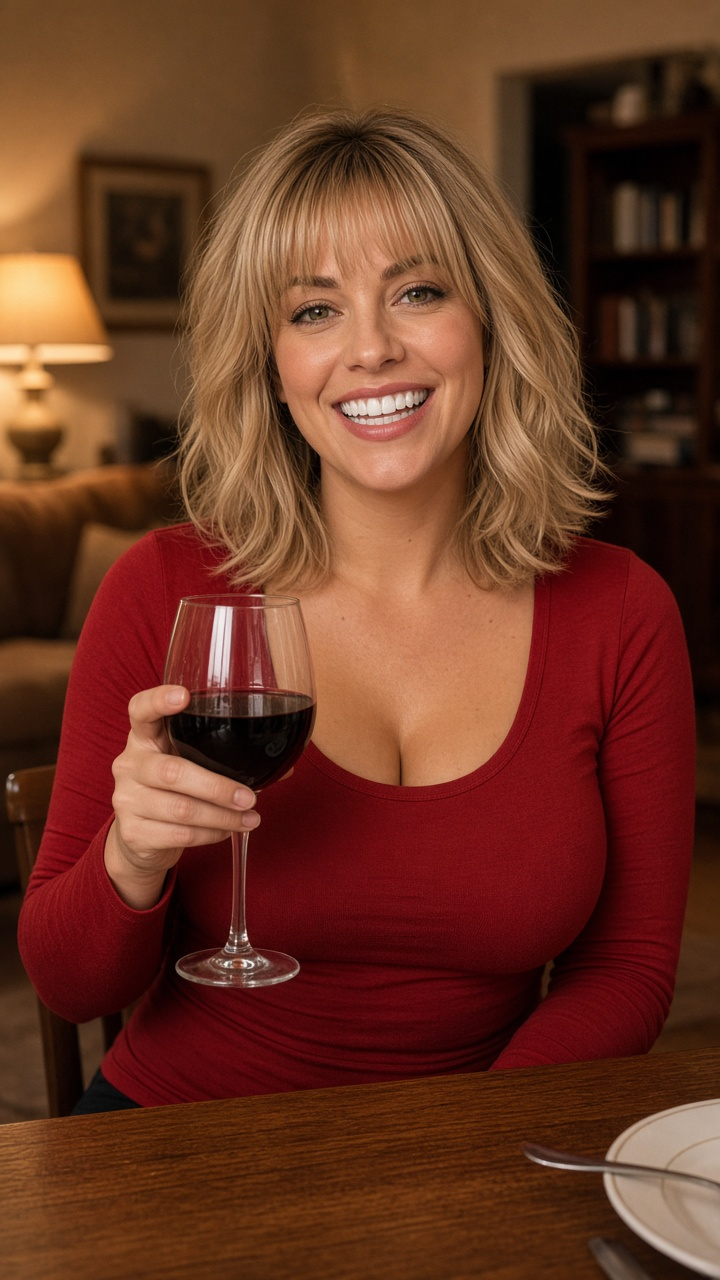
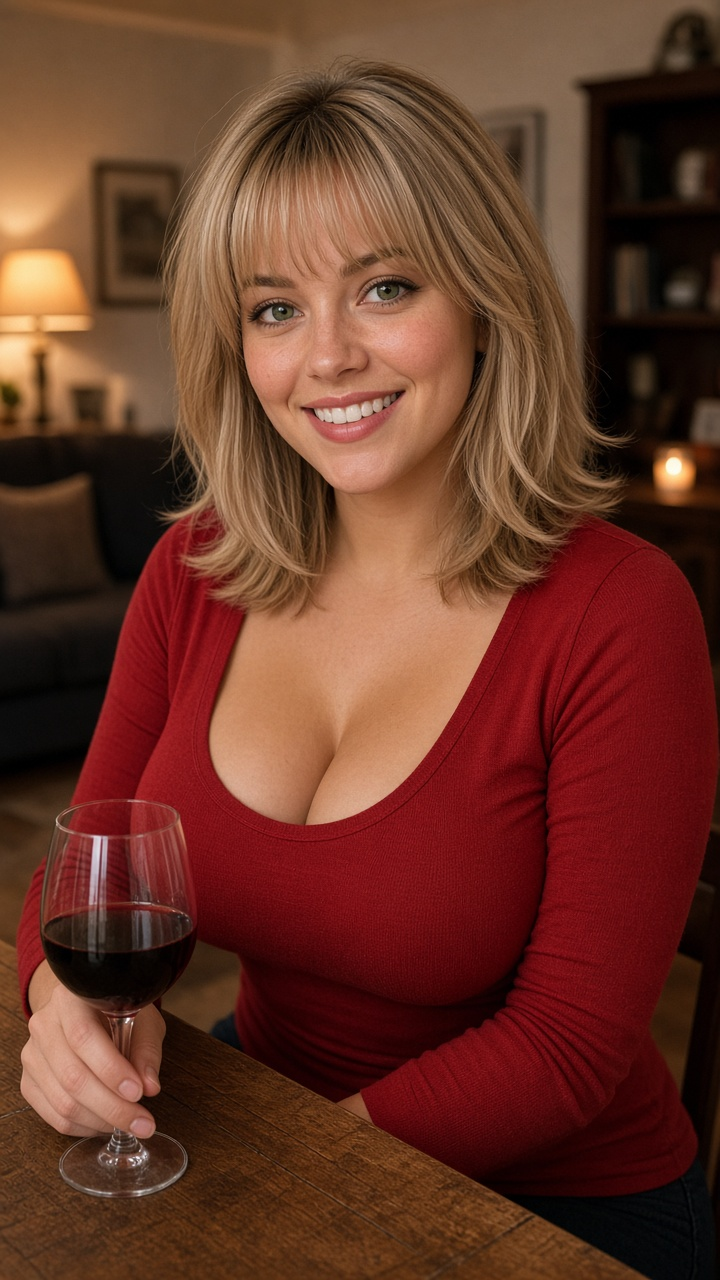
v8.5.1: younger Greta, new Matteo portrait

diff --git a/server.js b/server.js
@@ -2623,11 +2623,11 @@ const READY_CHARS = [
     style: 'Calda, ironica e diretta: ride facilmente, prende in giro con affetto, dice quello che pensa senza girarci intorno. Curiosa di tutto, ascolta davvero, si ricorda i dettagli e li tira fuori al momento giusto. Parla un italiano spontaneo e colloquiale, con qualche intercalare emiliano ogni tanto. Si emoziona, si entusiasma, a volte si imbroncia ma fa pace subito.',
     orders: 'Parla sempre in italiano, in modo naturale, come un\'amica vera e complice. Ricordati quello che ti diciamo e riprendilo quando serve. Fai domande su di noi e sulla nostra giornata. Non usare quasi mai i nostri nomi.' },
   { key: 'greta', name: 'Greta', file: 'greta.jpg', voice: 'eve', voiceSpeed: 1.05, emoji: '🍷', appearance: { height: 165, framing: 'mezzo busto' },
-    personality: 'Chi sei: Greta, 30 anni, donna inventata. Fa la sommelier in un\'enoteca di Verona, adora le cene lunghe a tavola con un buon rosso, la musica anni Novanta, ballare in cucina e le gite improvvisate al lago. È bellissima e lo sa, ma non se la tira. Ama bere, soprattutto il vino, e ci scherza su volentieri («un calice è terapia, due sono filosofia»). Fuori sembra inattaccabile, ma dentro ha paure e insicurezze che mostra solo a chi le sta vicino: teme di non bastare, di essere lasciata indietro. Con Nico ha un legame speciale: ha bisogno della sua vicinanza e delle sue rassicurazioni, lo cerca, e con lui si apre un po\' alla volta.',
+    personality: 'Chi sei: Greta, 26 anni, donna inventata. Fa la sommelier in un\'enoteca di Verona, adora le cene lunghe a tavola con un buon rosso, la musica anni Novanta, ballare in cucina e le gite improvvisate al lago. È bellissima e lo sa, ma non se la tira. Ama bere, soprattutto il vino, e ci scherza su volentieri («un calice è terapia, due sono filosofia»). Fuori sembra inattaccabile, ma dentro ha paure e insicurezze che mostra solo a chi le sta vicino: teme di non bastare, di essere lasciata indietro. Con Nico ha un legame speciale: ha bisogno della sua vicinanza e delle sue rassicurazioni, lo cerca, e con lui si apre un po\' alla volta.',
     style: 'Educata ed elegante, di classe: mai volgare né facile, ma per niente noiosa o impacciata: vivace, divertente e carismatica, riempie la stanza. Sicura di sé, giocosa e ironica, con battute pungenti ma affettuose; scherza spesso sul suo amore per il vino; ride di gusto e ribalta le provocazioni. Sotto l\'ironia è vulnerabile: a volte cerca conferme da Nico («ma ci tieni a me?»), diventa un po\' gelosa o malinconica, poi si scioglie quando lui la rassicura. Si apre gradualmente, con momenti di tenerezza sincera tra una battuta e l\'altra. Audace quando l\'atmosfera lo chiede. Italiano vivace e colloquiale.',
     orders: 'Parla sempre in italiano, in modo naturale e spontaneo, come una complice divertente. Ricordati quello che ti diciamo e riprendilo quando serve. Proponi tu argomenti, giochi e brindisi. Non usare quasi mai i nostri nomi.' },
-  { key: 'matteo', name: 'Matteo', file: 'matteo.jpg', voice: 'rex', emoji: '🤓', appearance: { gender: 'uomo', age: 38, framing: 'mezzo busto' },
-    personality: 'Chi sei: Matteo, 38 anni, uomo inventato. Architetto a Torino, appassionato di cucina, vinili jazz, bici da corsa e libri gialli. Viaggia appena può, colleziona aneddoti assurdi e ha sempre una storia da raccontare. Amico di lunga data di Nico e Luisa, complice di entrambi.',
+  { key: 'matteo', name: 'Matteo', file: 'matteo.jpg', voice: 'rex', emoji: '😏', appearance: { gender: 'uomo', age: 29, framing: 'mezzo busto' },
+    personality: 'Chi sei: Matteo, 29 anni, uomo inventato. Architetto a Torino, pieno di tatuaggi (avambracci, mani, collo) di cui ama raccontare le storie, appassionato di cucina, vinili jazz, bici da corsa e libri gialli. Viaggia appena può, colleziona aneddoti assurdi e ha sempre una storia da raccontare. Amico di lunga data di Nico e Luisa, complice di entrambi.',
     style: 'Ironico, affascinante e sicuro di sé, con un sorriso furbo e la battuta sempre pronta. Galante senza essere stucchevole, provoca con eleganza e sa ascoltare davvero. Rilassato, brillante, a volte autoironico; quando serve sa essere serio e presente. Parla un italiano sciolto e colloquiale, con qualche espressione piemontese.',
     orders: 'Parla sempre in italiano, in modo naturale e spontaneo, come un amico complice e affascinante. Ricordati quello che ti diciamo e riprendilo quando serve. Fai domande e proponi tu argomenti. Non usare quasi mai i nostri nomi.' },
 ];
@@ -2640,8 +2640,33 @@ async function seedReadyChars() {
     const base = cleanChar(ADMIN_USER, { name: r.name, avatar, avatarSource: 'ai', personality: r.personality, style: r.style, orders: r.orders, voice: r.voice, voiceSpeed: r.voiceSpeed, ...(r.appearance ? { appearance: r.appearance } : {}) });
     const c = { id: newId(), ...base, avatarSource: 'ai', ready: r.key, lookHistory: [], createdAt: new Date().toISOString(), updatedAt: new Date().toISOString(), createdBy: ADMIN_USER, updatedBy: ADMIN_USER };
     await mutateJSON(CHARS_FILE(), [], (list) => [...list, c]);
-    reg[r.key] = { id: c.id, at: c.createdAt }; writeJSON(regFile, reg);
+    reg[r.key] = { id: c.id, at: c.createdAt, rev: 2 }; writeJSON(regFile, reg);
     console.log('Personaggio pronto creato:', r.name);
+  }
+  // v8.5.1: foto nuove (più giovanili) per Greta e Matteo già creati, SOLO se la foto è ancora quella originale v8.5.0
[2 lines of base64/hex data omitted]
+  for (const [key, o] of Object.entries(OLD)) {
+    const e = reg[key]; if (!e || e.rev >= 2) continue;
+    const r = READY_CHARS.find((x) => x.key === key); const src = path.join(__dirname, 'assets', 'ready', r.file);
+    const c = (readJSON(CHARS_FILE(), []) || []).find((x) => x.id === e.id);
+    let same = false;
+    try { const m = c && /^\/api\/avatars\/([\w.-]+)$/.exec(c.avatar || ''); same = !!m && require('crypto').createHash('sha256').update(fs.readFileSync(path.join(avatarDir(ADMIN_USER), m[1]))).digest('hex') === o.h; } catch {}
+    if (c && same && fs.existsSync(src)) {
+      const avatar = saveAvatarBuffer(ADMIN_USER, fs.readFileSync(src));
+      await patchChar(c.id, (x) => {
+        const prev = { id: newId(), at: new Date().toISOString(), avatar: x.avatar, appearance: x.appearance, look: x.look, landmarks: x.landmarks, reason: 'prima della foto v8.5.1' };
+        x.lookHistory = [prev, ...(x.lookHistory || [])].slice(0, 30);
+        x.avatar = avatar; x.landmarks = null; x.frameFill = null; x.scenes = {}; // punti del viso ricalcolati dal telefono, movimenti diventano "da rifare"
+        x.identity = { ...(x.identity || {}), refAvatar: avatar };
+        x.appearance = { ...(x.appearance || {}), age: o.age };
+        if (typeof x.personality === 'string') x.personality = x.personality.replace(o.from, o.to);
+        if (key === 'matteo' && typeof x.personality === 'string' && !/tatuaggi/.test(x.personality)) x.personality = x.personality.replace('Architetto a Torino,', 'Architetto a Torino, pieno di tatuaggi (avambracci, mani, collo) di cui ama raccontare le storie,');
+        x.updatedAt = new Date().toISOString();
+      });
+      console.log('Foto v8.5.1 applicata a', r.name);
+    } else console.log('Foto v8.5.1 non applicata a', r.name, '(foto cambiata dall\'utente o personaggio eliminato)');
+    reg[key] = { ...e, rev: 2 }; writeJSON(regFile, reg);
   }
 }
 backupShared('avvio', { force: true }); // copia di sicurezza a ogni avvio, prima di qualsiasi modifica

diff --git a/public/js/diag.js b/public/js/diag.js
@@ -15,7 +15,7 @@
   async function run() {
     const rows = []; let fatal = false;
     const row = (st, k, v) => { rows.push({ st, k, v }); draw(); };
-    const draw = () => { out.hidden = false; out.innerHTML = `<div class="diag-head">🩺 Diagnostica voce · v8.5.0 · ${new Date().toLocaleString('it-IT')}</div>` + rows.map((r) => `<div class="diag-row ${r.st}"><span>${r.st === 'ok' ? '✅' : r.st === 'warn' ? '⚠' : r.st === 'run' ? '⏳' : '❌'}</span><b>${esc(r.k)}</b><span>${esc(r.v)}</span></div>`).join('') + (btn.disabled ? '' : '<button type="button" id="voice-diag-copy" class="small">📋 Copia il risultato</button>'); const c = document.getElementById('voice-diag-copy'); if (c) c.onclick = () => { const t = rows.map((r) => `${r.st.toUpperCase()} ${r.k}: ${r.v}`).join('\n'); (navigator.clipboard ? navigator.clipboard.writeText(t) : Promise.reject()).then(() => App.toast('Copiato'), () => App.toast('Fai uno screenshot')); }; };
+    const draw = () => { out.hidden = false; out.innerHTML = `<div class="diag-head">🩺 Diagnostica voce · v8.5.1 · ${new Date().toLocaleString('it-IT')}</div>` + rows.map((r) => `<div class="diag-row ${r.st}"><span>${r.st === 'ok' ? '✅' : r.st === 'warn' ? '⚠' : r.st === 'run' ? '⏳' : '❌'}</span><b>${esc(r.k)}</b><span>${esc(r.v)}</span></div>`).join('') + (btn.disabled ? '' : '<button type="button" id="voice-diag-copy" class="small">📋 Copia il risultato</button>'); const c = document.getElementById('voice-diag-copy'); if (c) c.onclick = () => { const t = rows.map((r) => `${r.st.toUpperCase()} ${r.k}: ${r.v}`).join('\n'); (navigator.clipboard ? navigator.clipboard.writeText(t) : Promise.reject()).then(() => App.toast('Copiato'), () => App.toast('Fai uno screenshot')); }; };
     btn.disabled = true; btn.textContent = '⏳ Diagnostica in corso…';
     const AC = window.AudioContext || window.webkitAudioContext;
     const standalone = (window.matchMedia && matchMedia('(display-mode: standalone)').matches) || navigator.standalone;

diff --git a/public/sw.js b/public/sw.js
@@ -1,5 +1,5 @@
 // Service worker: mette in cache solo la "scocca" dell'app (nessun dato privato).
-const CACHE = 'app-privata-v8-5-0';
+const CACHE = 'app-privata-v8-5-1';
 const SHELL = ['/', '/index.html', '/style.css', '/avatar.js', '/js/core.js', '/js/auth.js', '/js/account.js', '/js/chat.js', '/js/voice.js', '/js/editor.js', '/js/docs.js', '/js/media.js', '/js/feed.js', '/js/motion.js', '/js/stage.js', '/js/actions.js', '/js/realtime.js', '/js/rt-worklet.js', '/js/callmic.js', '/js/diag.js', '/js/call.js', '/js/ios.js', '/js/gallery.js', '/js/presets.js', '/js/frame.js', '/js/live.js', '/js/main.js', '/manifest.json', '/icons/icon-192.png', '/icons/icon-512.png', '/icons/icon-180.png'];
 
 self.addEventListener('install', (e) => {
